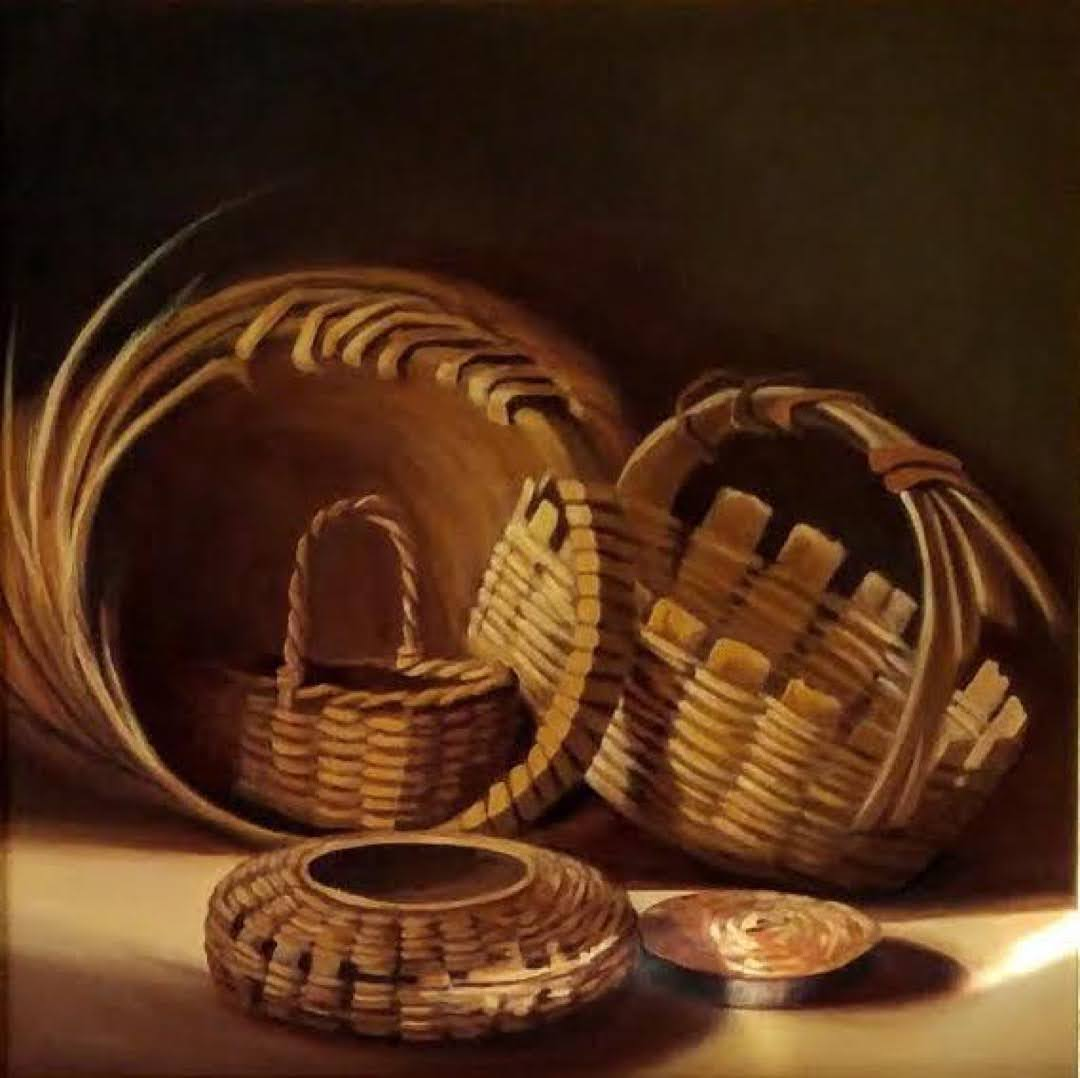
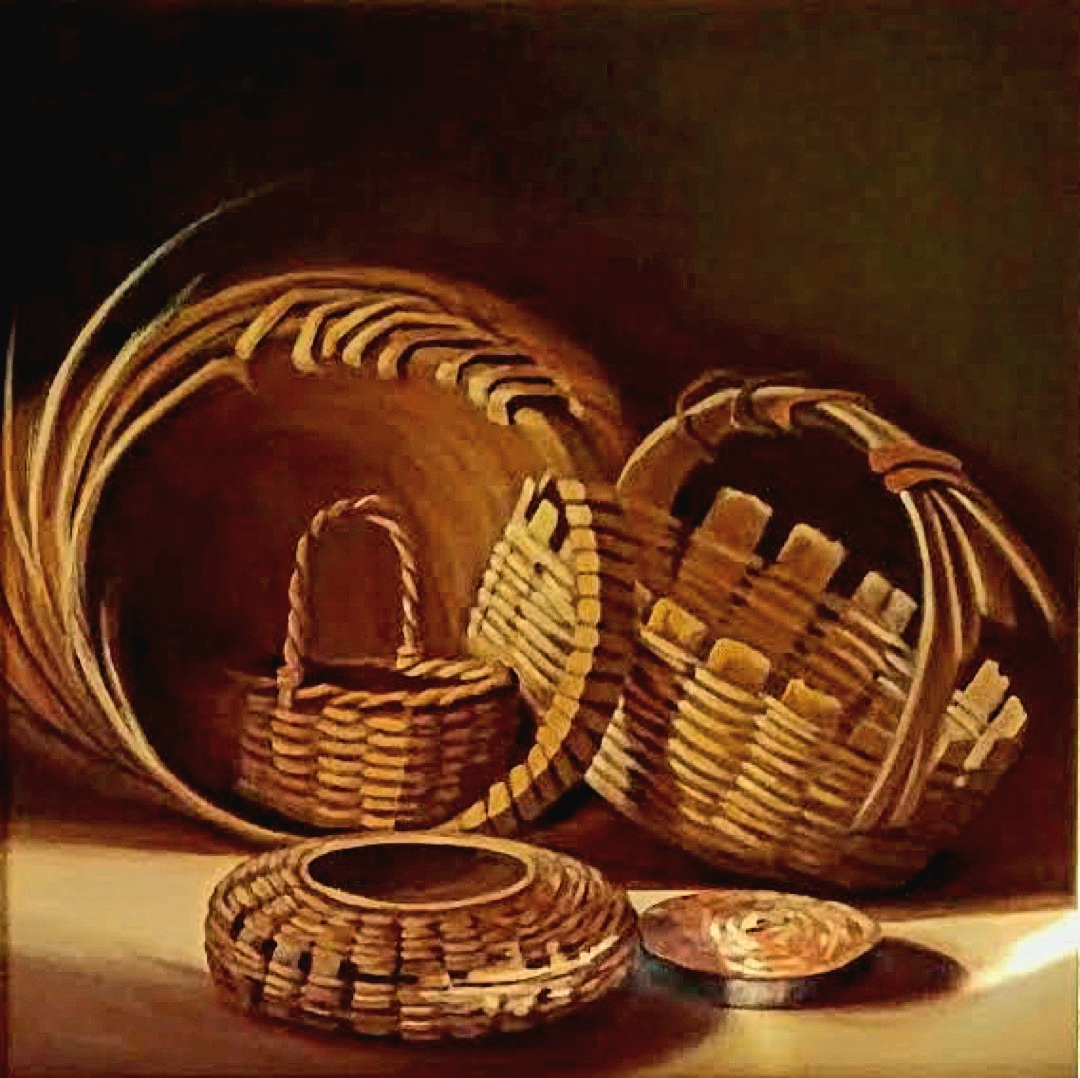
photo cleanup

Changed region(s): [[0.0, 0.2143, 1.0, 1.0], [0.9472, 0.6735, 1.0, 0.8571]]

diff --git a/portfolio.html b/portfolio.html
@@ -164,9 +164,6 @@
 				<a href="img/portfolio/123_1(7) - Maria Tsai.jpeg" title="A great beginning , 48&#8243 x 30&#8243" class="img-popup Oil Still Landscape">
 					<img alt="A great beginning " src="img/thumbnails/123_1(7) - Maria Tsai.jpeg">
 				</a>
-				<a href="img/portfolio/20230119_141058 - Maria Tsai.jpg" title="Pour me one please, 16&#8243 x 20&#8243" class="img-popup Oil Still">
-					<img alt="Pour me one please" src="img/thumbnails/20230119_141058 - Maria Tsai.jpg">
-				</a>
 				<a href="img/portfolio/20230206_175016 - Maria Tsai.jpg" title="Wine and grapes, 20&#8243 x 16&#8243" class="img-popup Oil Still">
 					<img alt="Wine and grapes" src="img/thumbnails/20230206_175016 - Maria Tsai.jpg">
 				</a>
@@ -215,9 +212,6 @@
 				<a href="img/portfolio/13 - Maria Tsai.jpg" title="Cardinal, 11x14" class="img-popup Oil Animal">
 					<img alt="Cardinal" src="img/thumbnails/13 - Maria Tsai.jpg">
 				</a>
-				<a href="img/portfolio/4 - Maria Tsai.jpg" title="Onions, 14x11" class="img-popup Oil Still">
-					<img alt="Onions" src="img/thumbnails/4 - Maria Tsai.jpg">
-				</a>
 				<a href="img/portfolio/9 - Maria Tsai.jpg" title="Sandy shore, 14x11" class="img-popup Oil Landscape">
 					<img alt="Sandy shore" src="img/thumbnails/9 - Maria Tsai.jpg">
 				</a>
@@ -259,9 +253,6 @@
 				</a>
 				<a href="img/portfolio/61 - Maria Tsai.jpg" title="Don't Cry, 10x14" class="img-popup Acrylic Portrait">
 					<img alt="Don't Cry" src="img/thumbnails/61 - Maria Tsai.jpg">
-				</a>
-				<a href="img/portfolio/60 - Maria Tsai.jpg" title="Sunflowers, 14x11" class="img-popup Acrylic Landscape">
-					<img alt="Sunflowers" src="img/thumbnails/60 - Maria Tsai.jpg">
 				</a>
 				<a href="img/portfolio/59 - Maria Tsai.jpg" title="Determination, 14x11" class="img-popup Acrylic">
 					<img alt="Determination" src="img/thumbnails/59 - Maria Tsai.jpg">

diff --git a/fullscreen.html b/fullscreen.html
@@ -37,7 +37,6 @@
   <img class="featured fade center" src="img/portfolio/20230119_140805 - Maria Tsai.jpg">
   <img class="featured fade center" src="img/portfolio/20230119_140840 - Maria Tsai.jpg">
   <img class="featured fade center" src="img/portfolio/123_1(7) - Maria Tsai.jpeg">
-  <img class="featured fade center" src="img/portfolio/20230119_141058 - Maria Tsai.jpg">
   <img class="featured fade center" src="img/portfolio/20230206_175016 - Maria Tsai.jpg">
   <img class="featured fade center" src="img/portfolio/IMG_5922 - Maria Tsai.JPG">
   <img class="featured fade center" src="img/portfolio/20221121_143151 - Maria Tsai.jpg">
@@ -52,7 +51,6 @@
   <img class="featured fade center" src="img/portfolio/57 - Maria Tsai.jpg">
   <img class="featured fade center" src="img/portfolio/56 - Maria Tsai.jpg">
   <img class="featured fade center" src="img/portfolio/69 - Maria Tsai.jpg">
-  <img class="featured fade center" src="img/portfolio/4 - Maria Tsai.jpg">
   <img class="featured fade center" src="img/portfolio/1 - Maria Tsai.jpg">
   <img class="featured fade center" src="img/portfolio/12 - Maria Tsai.jpg">
   <img class="featured fade center" src="img/portfolio/23 - Maria Tsai.jpg">
